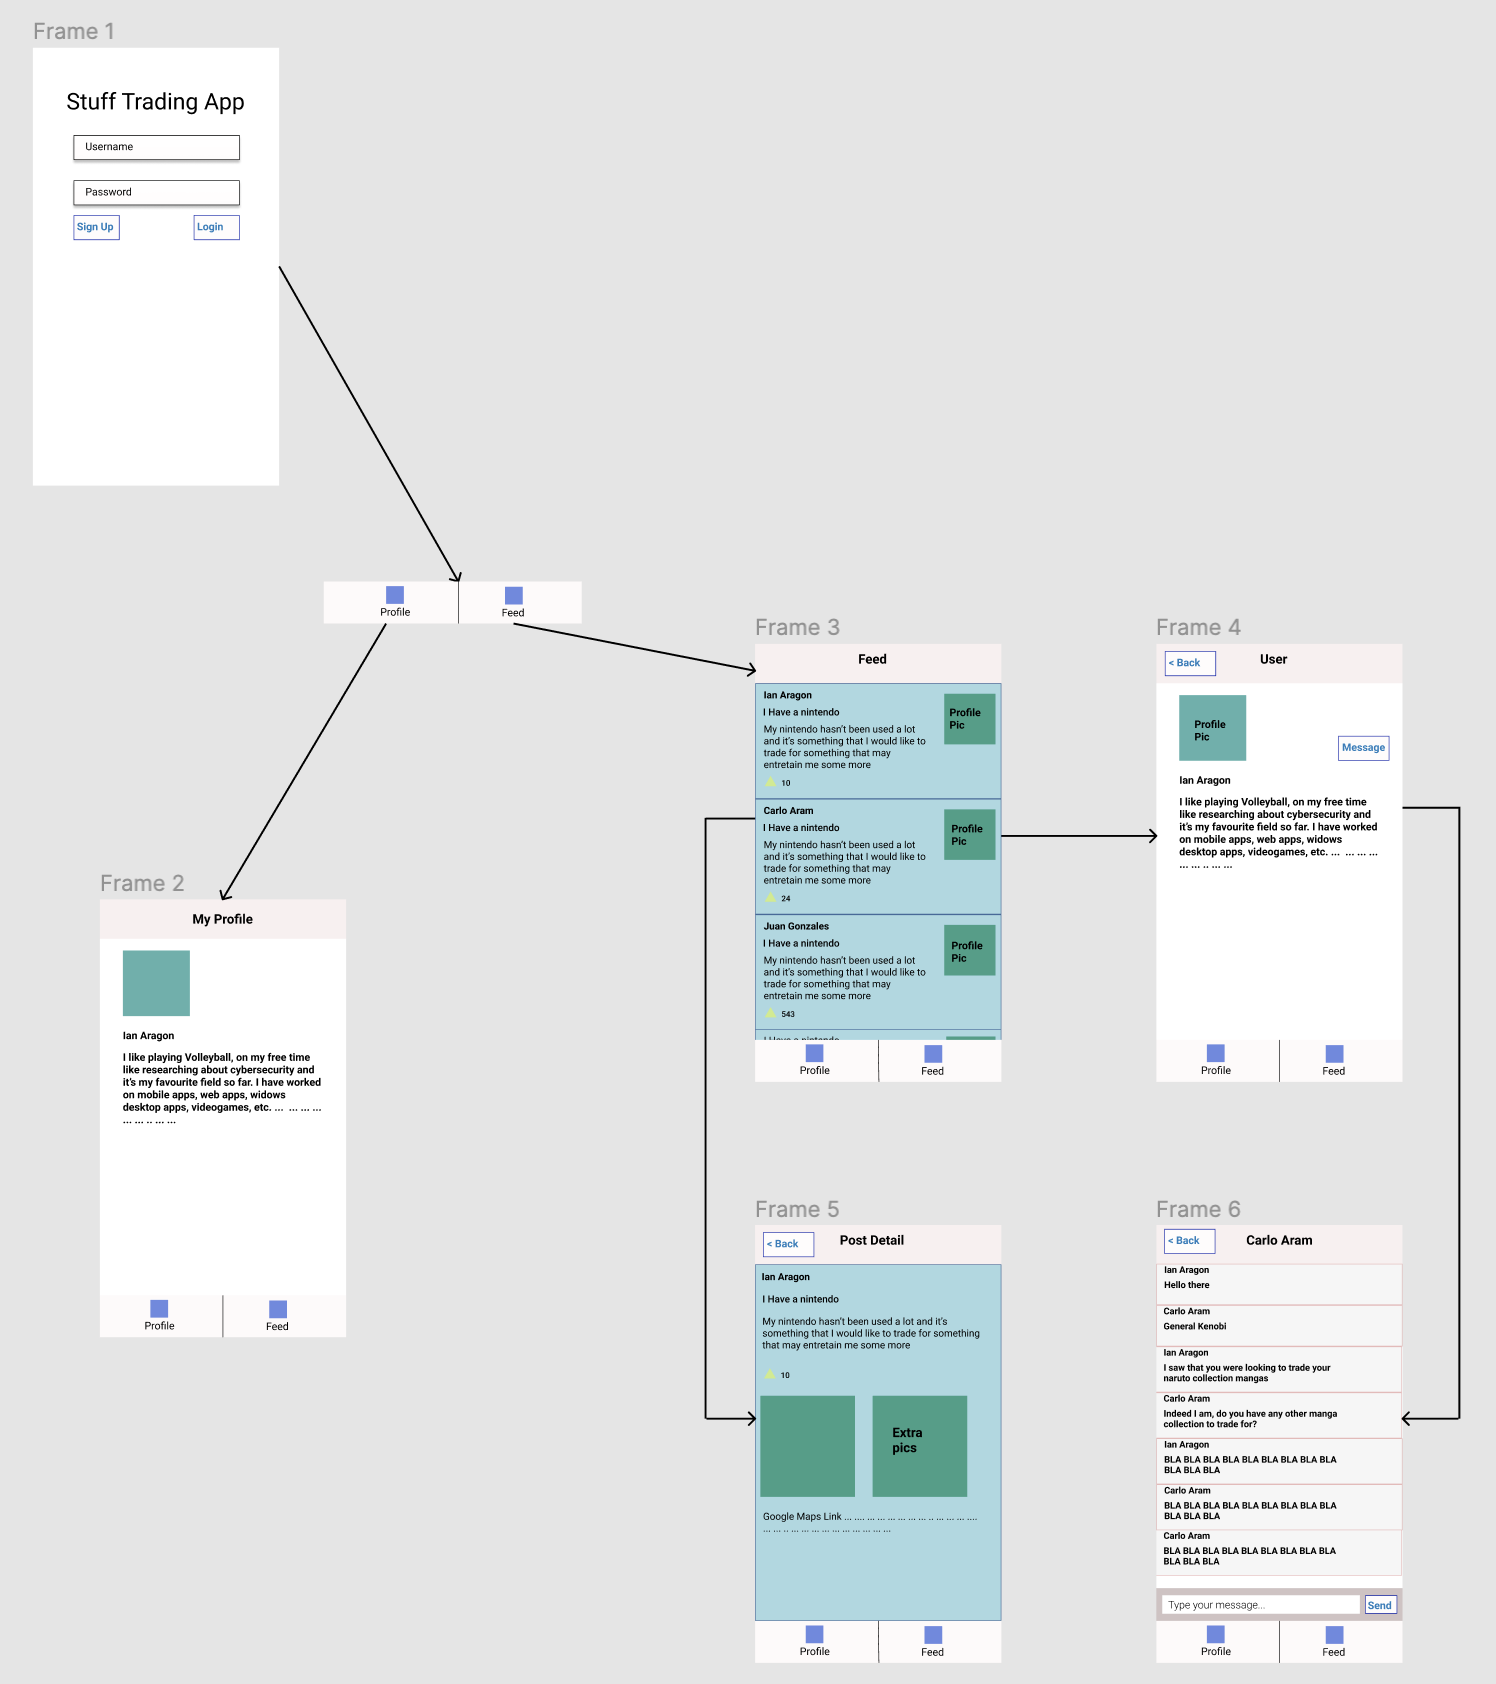
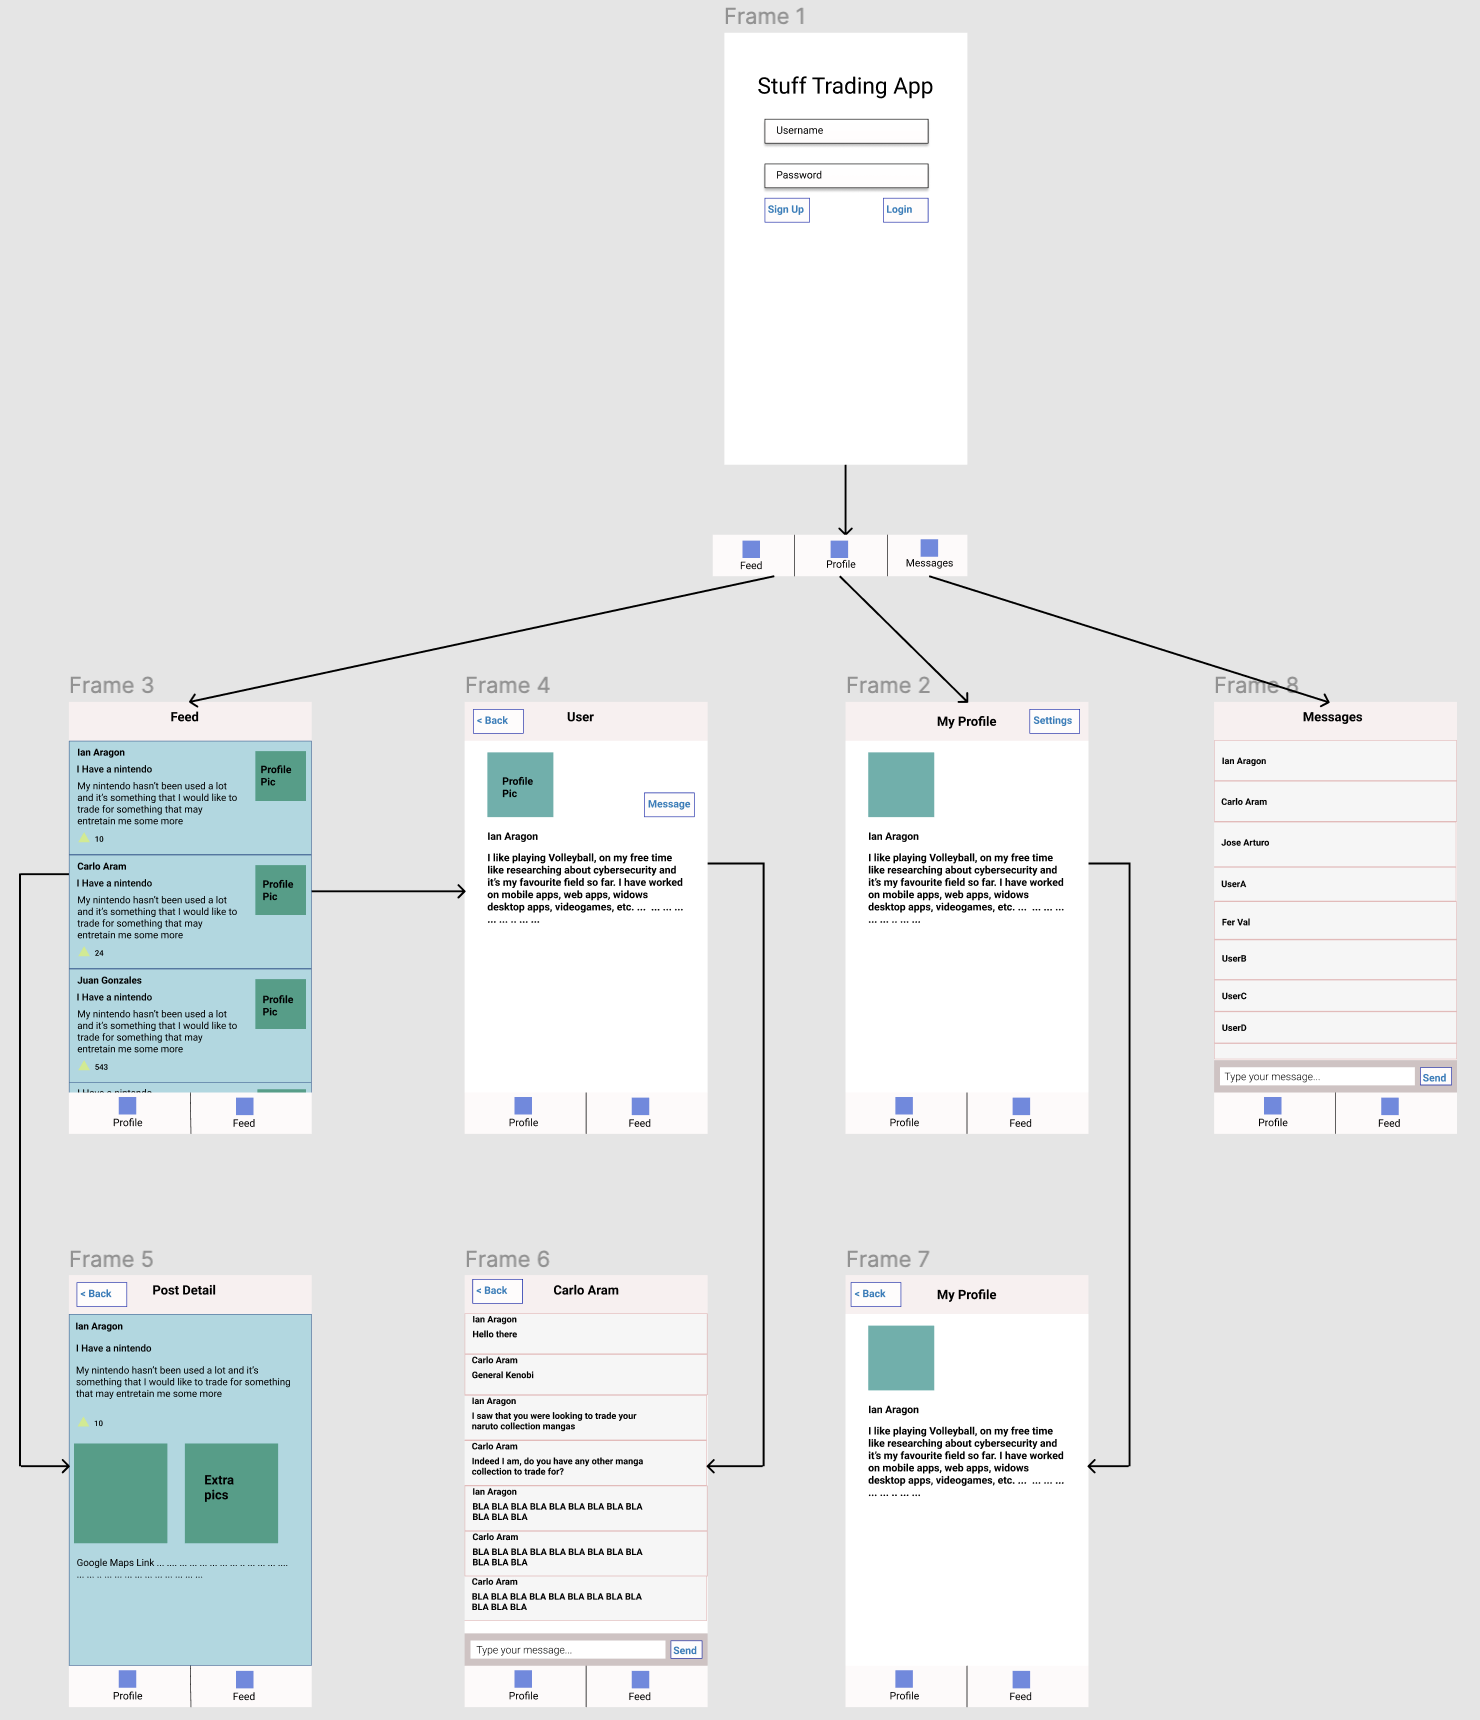
updated networking, views, flow of views and wireframe

diff --git a/README.md b/README.md
@@ -38,6 +38,10 @@ It's an app where people can put up what items they would like to trade or give 
 * The user can see the feed of trading options.
 * The feed should have infinite scrolling.
 * The users can message each other.
+* User can change his name
+* User can change his password
+* User can change his profile picture.
+* User can see the chats and messages he has
 
 **Optional Nice-to-have Stories**
 
@@ -46,6 +50,7 @@ It's an app where people can put up what items they would like to trade or give 
 * Map view where it shows the trade posts close to you.
 * User should display the relative timestamp for each post "8m", "7h"
 * User can message images
+
 
 ### 2. Screen Archetypes
 
@@ -68,26 +73,45 @@ It's an app where people can put up what items they would like to trade or give 
     * Your app use an animation (doesn’t have to be fancy) (e.g. fade in/out, e.g. animating a view growing and shrinking)
 * PostDetails
     * User should display the relative timestamp for each post "8m", "7h"
-* Messages
+* DirectMessage
     * User should display the relative timestamp for each message "8m", "7h"
+    * The users can message each other.
+* Messages
+    * User can see the chats and messages he has
+* UserSettings
+    * User can change his name
+    * User can change his password
+    * User can change his profile picture.
+
 ### 3. Navigation
 
 **Tab Navigation** (Tab to Screen)
 
 * Profile
 * Feed
+* Messages
 * Optional: close trades map
 
 **Flow Navigation** (Screen to Screen)
 
 * Login
    * Profile
+   
+* Profile
+   * UserSettings
+   
+* Messages
+    * DirectMessage
 
 * Feed
    * User
-        * Messages
    * PostDetails
+   
+* PostDetails
    * ComposePost
+   
+* User
+   * DirectMessage
 
 ## Digital Wireframes
 
@@ -96,10 +120,145 @@ It's an app where people can put up what items they would like to trade or give 
 ### [BONUS] Interactive Prototype
 
 ## Schema 
-[This section will be completed in Unit 9]
 ### Models
-[Add table of models]
+#### Post
+| Property      | Type     | Description |
+| ------------- | -------- | ------------|
+| objectId      | String   | unique id for the post (default field) |
+| author        | Pointer to User| image author |
+| image         | File     | image that user posts |
+| title       | String   | image caption by author |
+| description | Number   | number of comments that has been posted to an image |
+| likesCount    | Number   | number of likes for the post |
+| createdAt     | DateTime | date when post is created (default field) |
+| updatedAt     | DateTime | date when post is last updated (default field) |
+
+#### User
+| Property      | Type     | Description |
+| ------------- | -------- | ------------|
+| objectId      | String   | unique id for the user (default field) |
+| image         | File       | image of user |
+| username   | String   | user's name |
+| password   | String   | user's password |
+| email | String   | user's email |
+| emailVerified    | Bool   | if user has verified his email |
+| authData    | Object   | user data |
+| createdAt     | DateTime | date when post is created (default field) |
+| updatedAt     | DateTime | date when post is last updated (default field) |
+
+### Chat
+| Property      | Type     | Description |
+| ------------- | -------- | ------------|
+| objectId      | String   | unique id for the message (default field) |
+| userA         | Pointer to User       | user from chat |
+| userB   | Pointer to User   | user from chat |
+| createdAt     | DateTime | date when post is created (default field) |
+| updatedAt     | DateTime | date when post is last updated (default field) |
+
+#### Message
+| Property      | Type     | Description |
+| ------------- | -------- | ------------|
+| objectId      | String   | unique id for the message (default field) |
+| message         | String       | user's message |
+| chat   | Pointer to Chat   | chat where message is supposed to go |
+| author   | Pointer to User   | user's name |
+| createdAt     | DateTime | date when post is created (default field) |
+| updatedAt     | DateTime | date when post is last updated (default field) |
+
 ### Networking
-- [Add list of network requests by screen ]
-- [Create basic snippets for each Parse network request]
+#### Login
+| CRUD   | HTTP Verb | Example                              |
+|--------|-----------|--------------------------------------|
+| Create | POST      | Creating a new user                  |
+| Create | POST      | Create a post                        |
+| Create | POST      | Create a direct messsage             |
+| Create | POST      | Logout from current session     |
+| Read   | GET       | Get an existing user                 |
+| Read   | GET       | Fetching posts for user's feed       |
+| Read   | GET       | Get messages from a chat             |
+| Update | PUT       | Update existing user profile picture |
+| Update | PUT       | Change user's name                   |
+| Update | PUT       | Change user's password               |
+| Delete | Delete    | Delete an existing user              |
+
+    - Login Screen
+        - (Create/POST) Creating a new user
+           ```Objective-C
+           if([self usernameEmpty:self.usernameText.text password:self.passwordText.text])
+               return;
+           
+           PFUser *newUser = [PFUser user];
+           newUser.username = self.usernameText.text;
+           newUser.password = self.passwordText.text;
+           
+           [newUser signUpInBackgroundWithBlock:^(BOOL succeeded, NSError * _Nullable error) {
+               if(succeeded){
+                   //let user in
+               }else{
+                   //alert user of error
+               }
+           }];
+           ```
+        - (Read/GET) Get an exisiting user
+            ```Objective-C
+            if([self usernameEmpty:self.usernameText.text password:self.passwordText.text])
+                return;
+            
+            NSString *username = self.usernameText.text;
+            NSString *password = self.passwordText.text;
+
+            [PFUser logInWithUsernameInBackground:username password:password block:^(PFUser * _Nullable user, NSError * _Nullable error) {
+                if(error){
+                    //alert user of error
+                }else{
+                    //let user in
+                }
+            }];
+            ```
+    - Home Feed Screen
+        - (Read/GET) Fetching posts for user's feed 
+            ```Objective-C
+            PFQuery *query = [PFQuery queryWithClassName:@"Post"];
+            query.limit = 20;
+            [query orderByDescending:@"createdAt"];
+            [query includeKey:@"author"];
+            
+            [query findObjectsInBackgroundWithBlock:^(NSArray * _Nullable posts, NSError * _Nullable error) {
+                if(!error){
+                    //do something with posts
+                }else{
+                    //error
+                }
+            }];
+            ```
+        - (Create/POST) Logout from current session
+            ```Objective-C
+            //change scenes
+            [PFUser logOutInBackgroundWithBlock:^(NSError * _Nullable error) {
+                //do something
+            }];
+            ```
+    - Compose Post Screen
+        - (Create/POST) Create a post   
+            ```Objective-C
+            Post *newPost = [Post new];
+            newPost.image = [self getPFFileFromImage:image];
+            newPost.author = [PFUser currentUser];
+            newPost.caption = caption;
+            newPost.likeCount = @(0);
+            newPost.commentCount = @(0);
+            
+            [newPost saveInBackgroundWithBlock:];
+            ```
+            
+    - User Settings Screen
+        - (Create/POST) Create a post   
+            ```Objective-C
+            
+            ```
+    - Compose Post Screen
+        - (Create/POST) Create a post   
+            ```Objective-C
+            
+            ```
 - [OPTIONAL: List endpoints if using existing API such as Yelp]
